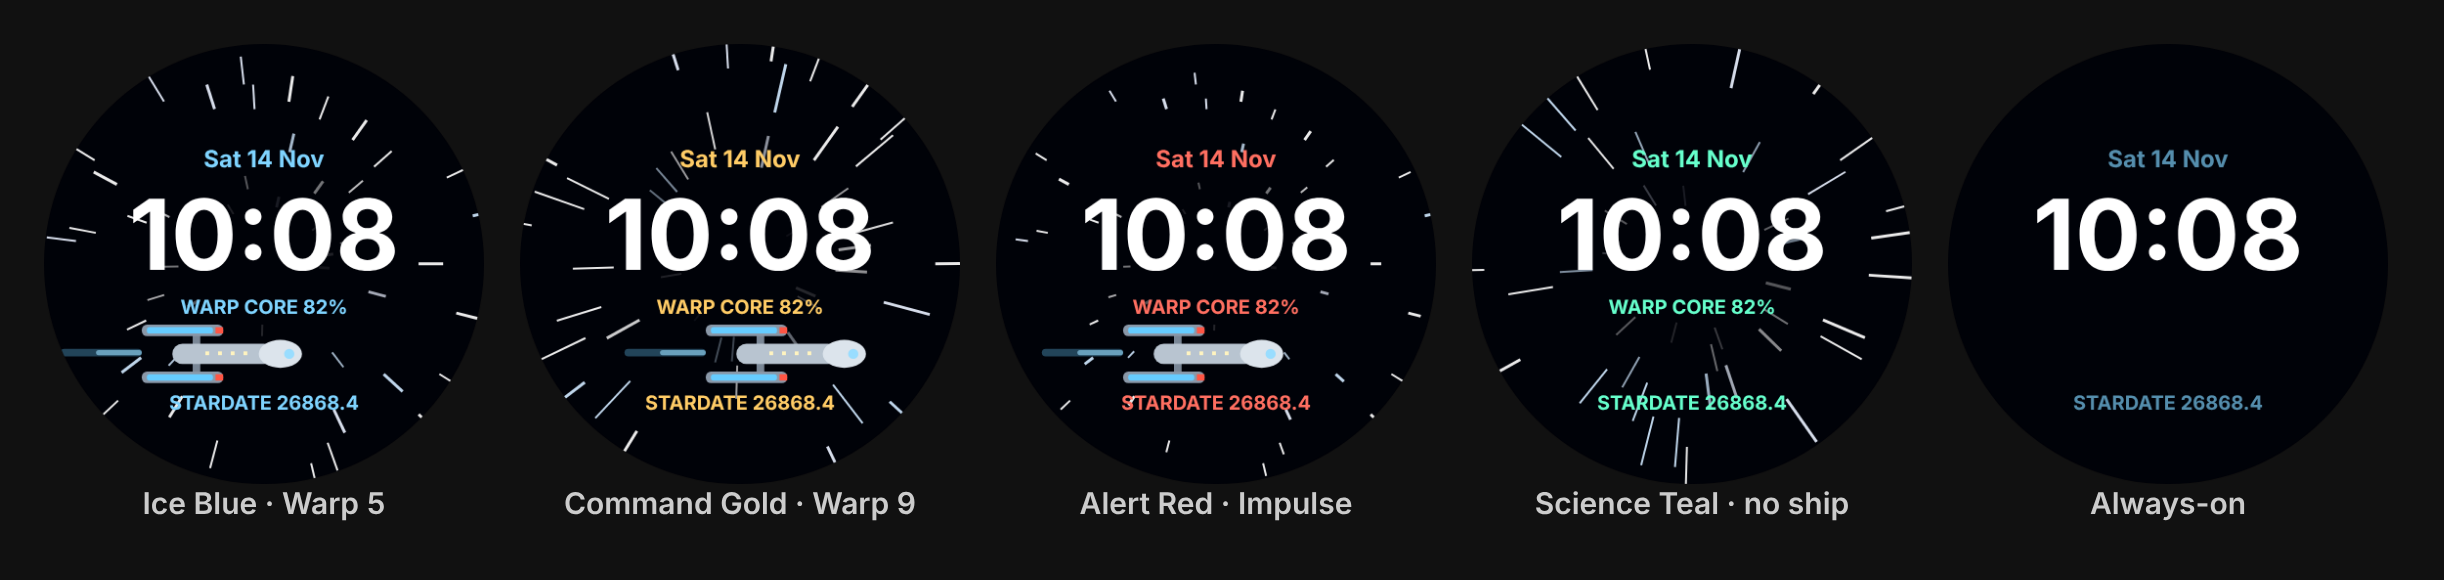
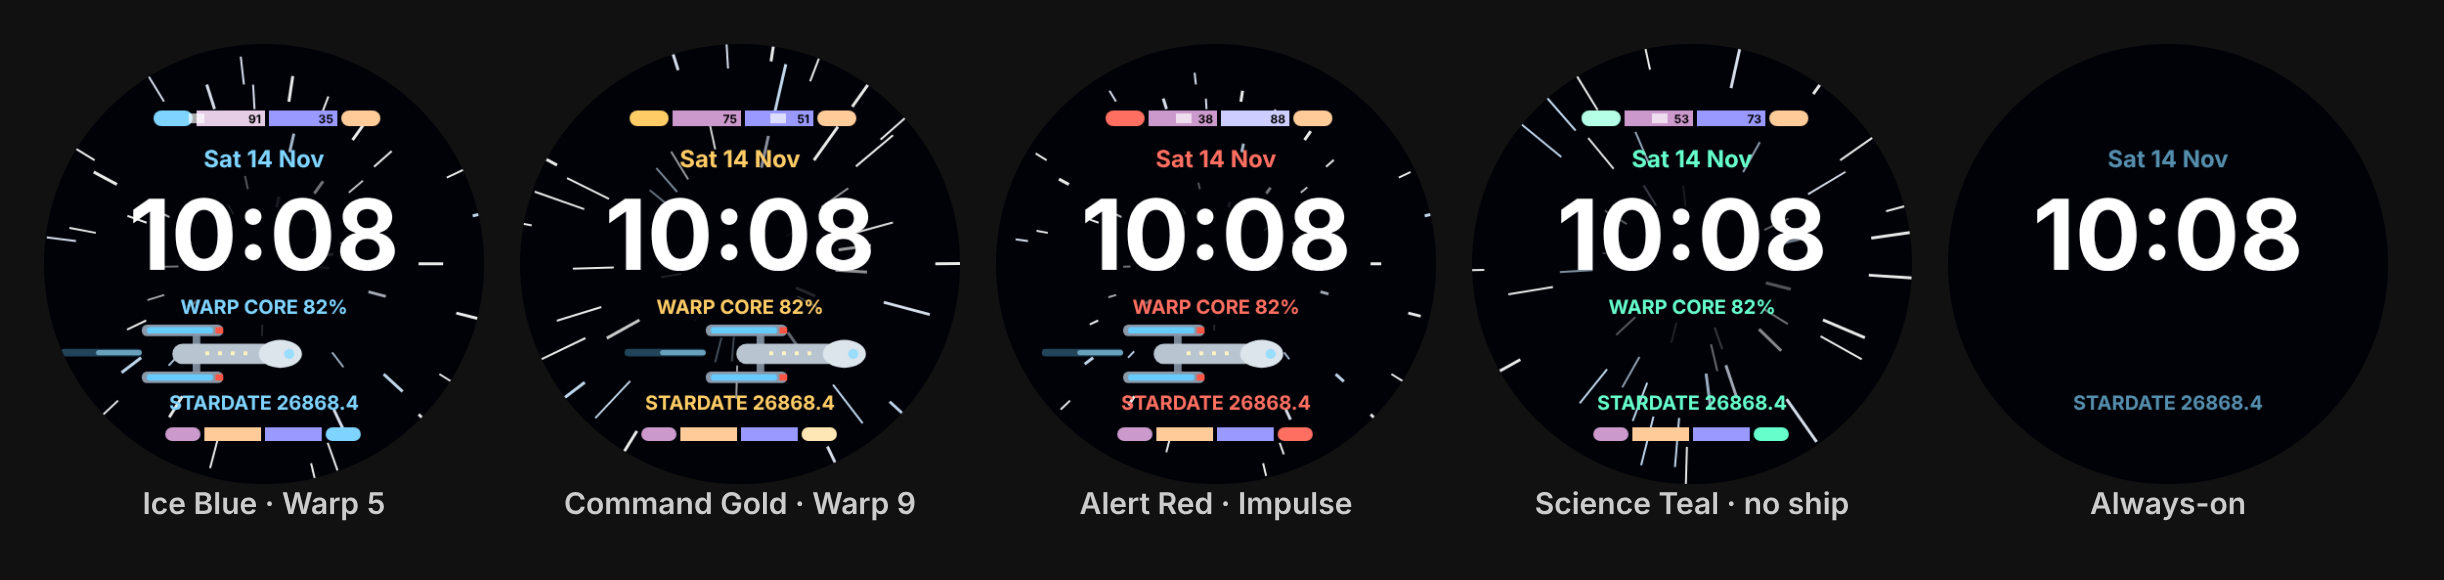
Warp Drive: add LCARS console strips with the Stardate Ops animation
Top and bottom strips with chasing lights, a sensor sweep and ticking
register numbers, generated from one segment table shared by the XML and
the preview renderer. Console animation toggle; hidden in always-on mode.
versionCode 3.

Claude-Session: https://claude.ai/code/session_01CsZzKTsw59dv76os2RKtjY

diff --git a/projects/watchfaces/warp-drive/tools/generate.py b/projects/watchfaces/warp-drive/tools/generate.py
@@ -118,6 +118,112 @@ def ship_xml():
       </BooleanOption>"""
 
 
+# ------------------------------------------------------- console strips ---
+# Slim LCARS strips above the date and below the stardate, with the same
+# animation as Stardate Ops: chasing lights (8 x 0.5 s = 4 s loop), a sensor
+# sweep along the top strip (3 s loop) and register numbers that tick each second.
+LAVENDER, PERIWINKLE, PEACH = "#FFCC99CC", "#FF9999FF", "#FFFFCC99"
+ACC = "[CONFIGURATION.accent.0]"
+TOP_Y, TOP_H, BOT_Y, BOT_H = 68, 16, 392, 14
+# (x, y, w, h, pill, colour) in chase order: top L->R, then bottom R->L.
+CONSOLE_SEGS = [
+    (112, TOP_Y, 40, TOP_H, True, ACC), (156, TOP_Y, 70, TOP_H, False, LAVENDER),
+    (230, TOP_Y, 70, TOP_H, False, PERIWINKLE), (304, TOP_Y, 40, TOP_H, True, PEACH),
+    (288, BOT_Y, 36, BOT_H, True, ACC), (226, BOT_Y, 58, BOT_H, False, PERIWINKLE),
+    (164, BOT_Y, 58, BOT_H, False, PEACH), (124, BOT_Y, 36, BOT_H, True, LAVENDER),
+]
+SWEEP = (112, 344 - 16, TOP_Y + 3, TOP_H - 6, 3.0)   # x0, x1, y, h, seconds
+REGISTERS = [  # (x, y, w, h, expression) - drawn in black on segments 1 and 2
+    (156, TOP_Y, 66, TOP_H, "([SECOND] * 37 + 3) % 90 + 10"),
+    (230, TOP_Y, 66, TOP_H, "([SECOND] * 53 + [MINUTE] * 7 + 47) % 90 + 10"),
+]
+STATIC_REGISTERS = ["03", "47"]
+
+
+def _shape(tag_x, x, y, w, h, pill, color, extra=""):
+    if pill:
+        r = h / 2
+        return (f'<RoundRectangle x="{x}" y="{y}" width="{w}" height="{h}" cornerRadiusX="{r}" '
+                f'cornerRadiusY="{r}">{extra}<Fill color="{color}" /></RoundRectangle>')
+    return f'<Rectangle x="{x}" y="{y}" width="{w}" height="{h}">{extra}<Fill color="{color}" /></Rectangle>'
+
+
+def _register_xml(x, y, w, h, tpl):
+    return f"""          <PartText x="{x}" y="{y}" width="{w}" height="{h}">
+            <Text align="END">
+              <Font size="12" weight="BOLD" color="#FF000000"><Template>{tpl}</Template></Font>
+            </Text>
+          </PartText>"""
+
+
+def console_xml():
+    static = "\n".join("        " + _shape(None, x, y, w, h, pill, c) for x, y, w, h, pill, c in CONSOLE_SEGS)
+    n = len(CONSOLE_SEGS)
+    chase = []
+    for i, (x, y, w, h, pill, _c) in enumerate(CONSOLE_SEGS):
+        d = f"(floor({T} * 2) % {n} - {i})"
+        chase.append(f"""          <PartDraw x="0" y="0" width="{W}" height="{H}">
+            <Transform target="alpha" value="(1 - clamp({d} * {d}, 0, 1)) * 130" />
+            {_shape(None, x, y, w, h, pill, "#FFFFFFFF")}
+          </PartDraw>""")
+    x0, x1, sy, sh, period = SWEEP
+    sweep = f"""          <PartDraw x="0" y="0" width="{W}" height="{H}">
+            <Transform target="alpha" value="170" />
+            <Rectangle x="{x0}" y="{sy}" width="16" height="{sh}">
+              <Transform target="x" value="{x0} + ({T} % {period:g}) / {period:g} * {x1 - x0}" />
+              <Fill color="#FFFFFFFF" />
+            </Rectangle>
+          </PartDraw>"""
+    live = "\n".join(_register_xml(x, y, w, h, f'%s<Parameter expression="{e}" />') for x, y, w, h, e in REGISTERS)
+    fixed = "\n".join(_register_xml(x, y, w, h, v) for (x, y, w, h, _e), v in zip(REGISTERS, STATIC_REGISTERS))
+    return f"""    <!-- ========== CONSOLE STRIPS (hidden in always-on mode) ========== -->
+    <PartDraw x="0" y="0" width="{W}" height="{H}">
+      <Variant mode="AMBIENT" target="alpha" value="0" />
+{static}
+    </PartDraw>
+    <BooleanConfiguration id="animate">
+      <BooleanOption id="TRUE">
+        <Group name="console_anim" x="0" y="0" width="{W}" height="{H}">
+          <Variant mode="AMBIENT" target="alpha" value="0" />
+{chr(10).join(chase)}
+{sweep}
+{live}
+        </Group>
+      </BooleanOption>
+      <BooleanOption id="FALSE">
+        <Group name="console_static" x="0" y="0" width="{W}" height="{H}">
+          <Variant mode="AMBIENT" target="alpha" value="0" />
+{fixed}
+        </Group>
+      </BooleanOption>
+    </BooleanConfiguration>
+"""
+
+
+def console_svg(t, accent_hex, animate=True):
+    out = []
+    col = lambda c: "#" + (accent_hex[3:] if c == ACC else c[3:])
+    for x, y, w, h, pill, c in CONSOLE_SEGS:
+        out.append(f'<rect x="{x}" y="{y}" width="{w}" height="{h}" rx="{h / 2 if pill else 0}" fill="{col(c)}"/>')
+    second, minute = int(t), 8
+    if animate:
+        n = len(CONSOLE_SEGS)
+        x, y, w, h, pill, _c = CONSOLE_SEGS[math.floor(t * 2) % n]
+        out.append(f'<rect x="{x}" y="{y}" width="{w}" height="{h}" rx="{h / 2 if pill else 0}" '
+                   f'fill="#FFFFFF" fill-opacity="{130 / 255:.2f}"/>')
+        x0, x1, sy, sh, period = SWEEP
+        out.append(f'<rect x="{x0 + (t % period) / period * (x1 - x0)}" y="{sy}" width="16" height="{sh}" '
+                   f'fill="#FFFFFF" fill-opacity="{170 / 255:.2f}"/>')
+        values = [str(eval(e.replace("[SECOND]", str(second)).replace("[MINUTE]", str(minute))))
+                  for *_g, e in REGISTERS]
+    else:
+        values = STATIC_REGISTERS
+    font = "font-family=\"'Inter','Liberation Sans',sans-serif\" font-weight=\"700\" text-anchor=\"end\" dominant-baseline=\"central\""
+    for (x, y, w, h, _e), v in zip(REGISTERS, values):
+        out.append(f'<text x="{x + w}" y="{y + h / 2}" font-size="12" fill="#000000" {font}>{v}</text>')
+    return "".join(out)
+
+
 def text_xml(x, y, w, h, size, color, template, ambient_alpha=None, weight="BOLD"):
     variant = (f'\n      <Variant mode="AMBIENT" target="alpha" value="{ambient_alpha}" />'
                if ambient_alpha is not None else "")
@@ -179,6 +285,7 @@ def build_xml():
 {speed_cfg}
     </ListConfiguration>
     <BooleanConfiguration id="showShip" displayName="ship_label" defaultValue="TRUE" />
+    <BooleanConfiguration id="animate" displayName="animate_label" defaultValue="TRUE" />
     <ListConfiguration id="clockFormat" displayName="clock_label" defaultValue="0">
       <ListOption id="0" displayName="clock_12" />
       <ListOption id="1" displayName="clock_24" />
@@ -197,6 +304,7 @@ def build_xml():
 {ship_xml()}
     </BooleanConfiguration>
 
+{console_xml()}
     <!-- ========== TEXT ========== -->
 {text_xml(80, 100, 290, 34, 24, accent, '%s  %s %s<Parameter expression="[DAY_OF_WEEK_S]" /><Parameter expression="[DAY]" /><Parameter expression="[MONTH_S]" />', 170)}
 
@@ -247,6 +355,8 @@ def frame_svg(t, speed_id=DEFAULT_SPEED, accent_id="0", ambient=False, ship=True
                     shapes.append(f'<rect x="{x}" y="{y}" width="{w}" height="{h}" rx="{r}" {fill}/>')
             parts.append(f'<g transform="translate({gx} {SHIP_Y})">{"".join(shapes)}</g>')
 
+    if not ambient:
+        parts.append(console_svg(t, accent))
     dim = 170 / 255 if ambient else 1
     font = "font-family=\"'Inter','Liberation Sans',sans-serif\" font-weight=\"700\" text-anchor=\"middle\" dominant-baseline=\"central\""
     parts.append(f'<text x="{C}" y="117" font-size="24" fill="{acc}" opacity="{dim:.2f}" {font}>Sat  14 Nov</text>')

diff --git a/projects/watchfaces/warp-drive/README.md b/projects/watchfaces/warp-drive/README.md
@@ -17,8 +17,12 @@ Long-press the face → **Customise**:
 | Accent colour | Ice Blue, Command Gold, Alert Red, Science Teal |
 | Warp speed | Impulse (slow drift), Warp 5, Warp 9 (long streaks) |
 | Starship flyby | On / Off |
+| Console animation | On / Off: chasing lights, a sensor sweep and ticking register numbers on the LCARS strips |
 
-Always-on mode turns off the stars and the ship, leaving the time, date and stardate dimmed, to save battery.
+Slim LCARS console strips above the date and below the stardate carry the same chasing-light
+animation as Stardate Ops.
+
+Always-on mode turns off the stars, the ship and the console strips, leaving the time, date and stardate dimmed, to save battery.
 
 ## Get it on the watch
 
